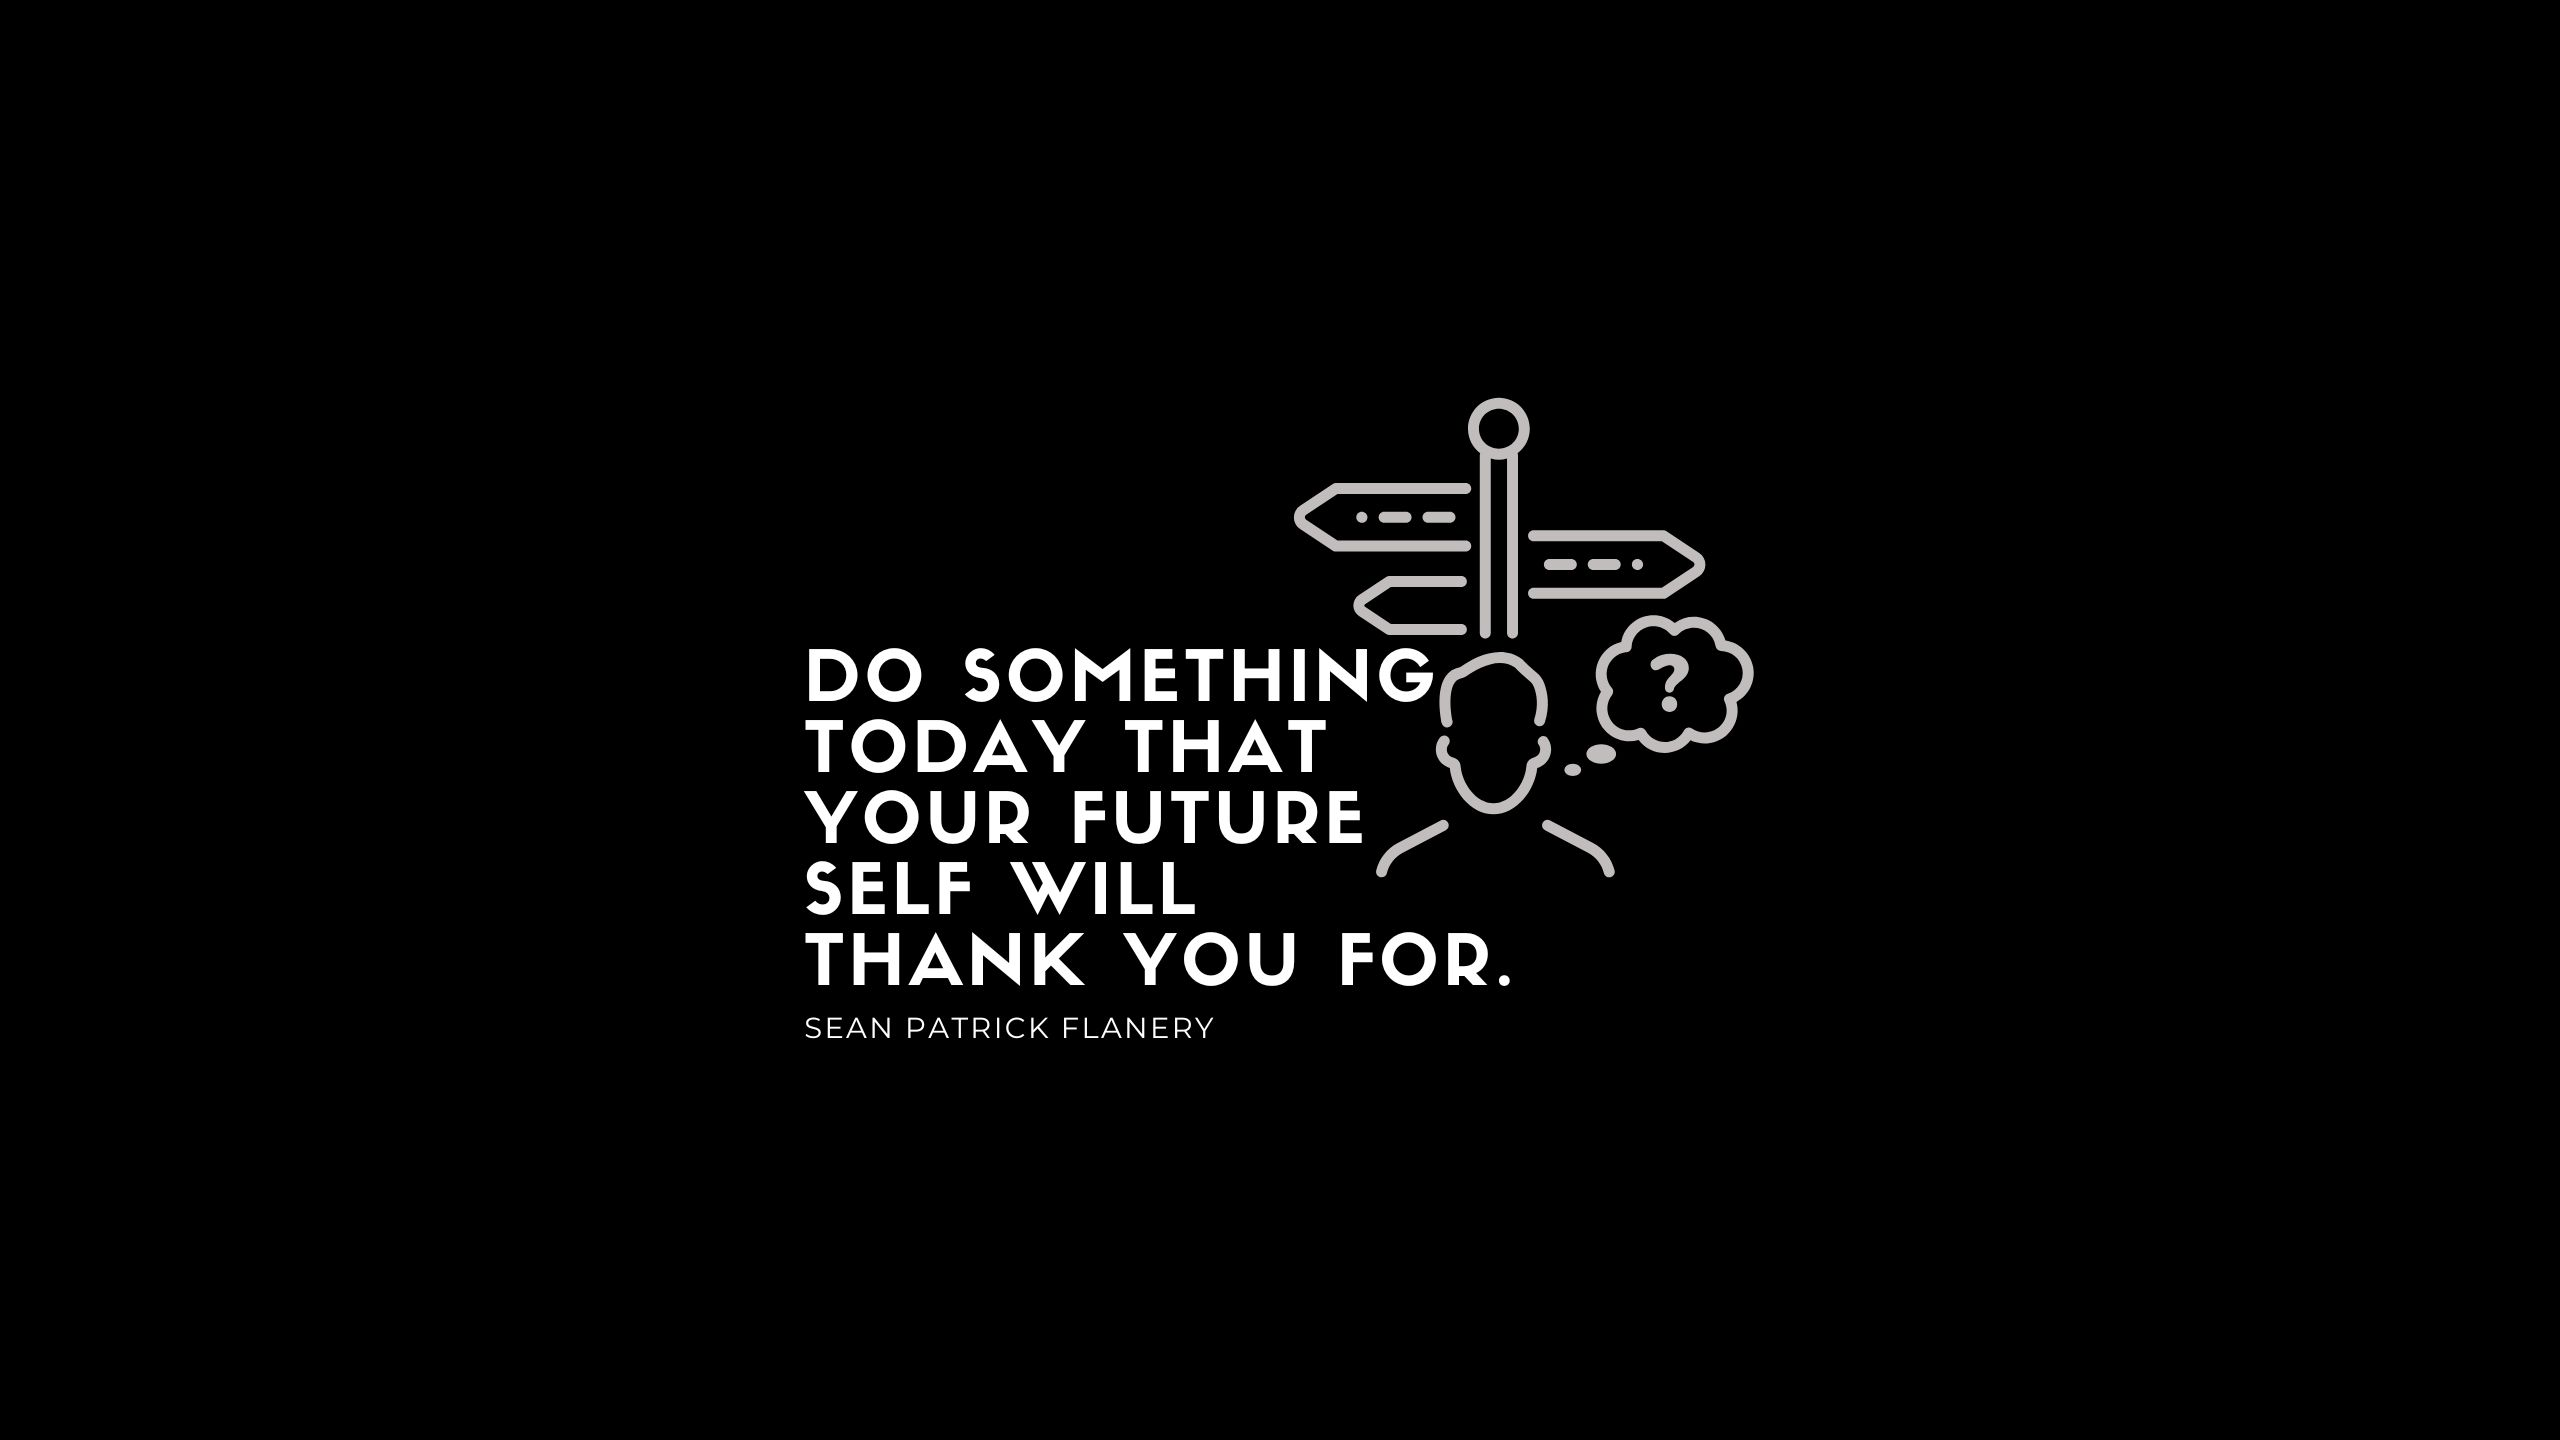
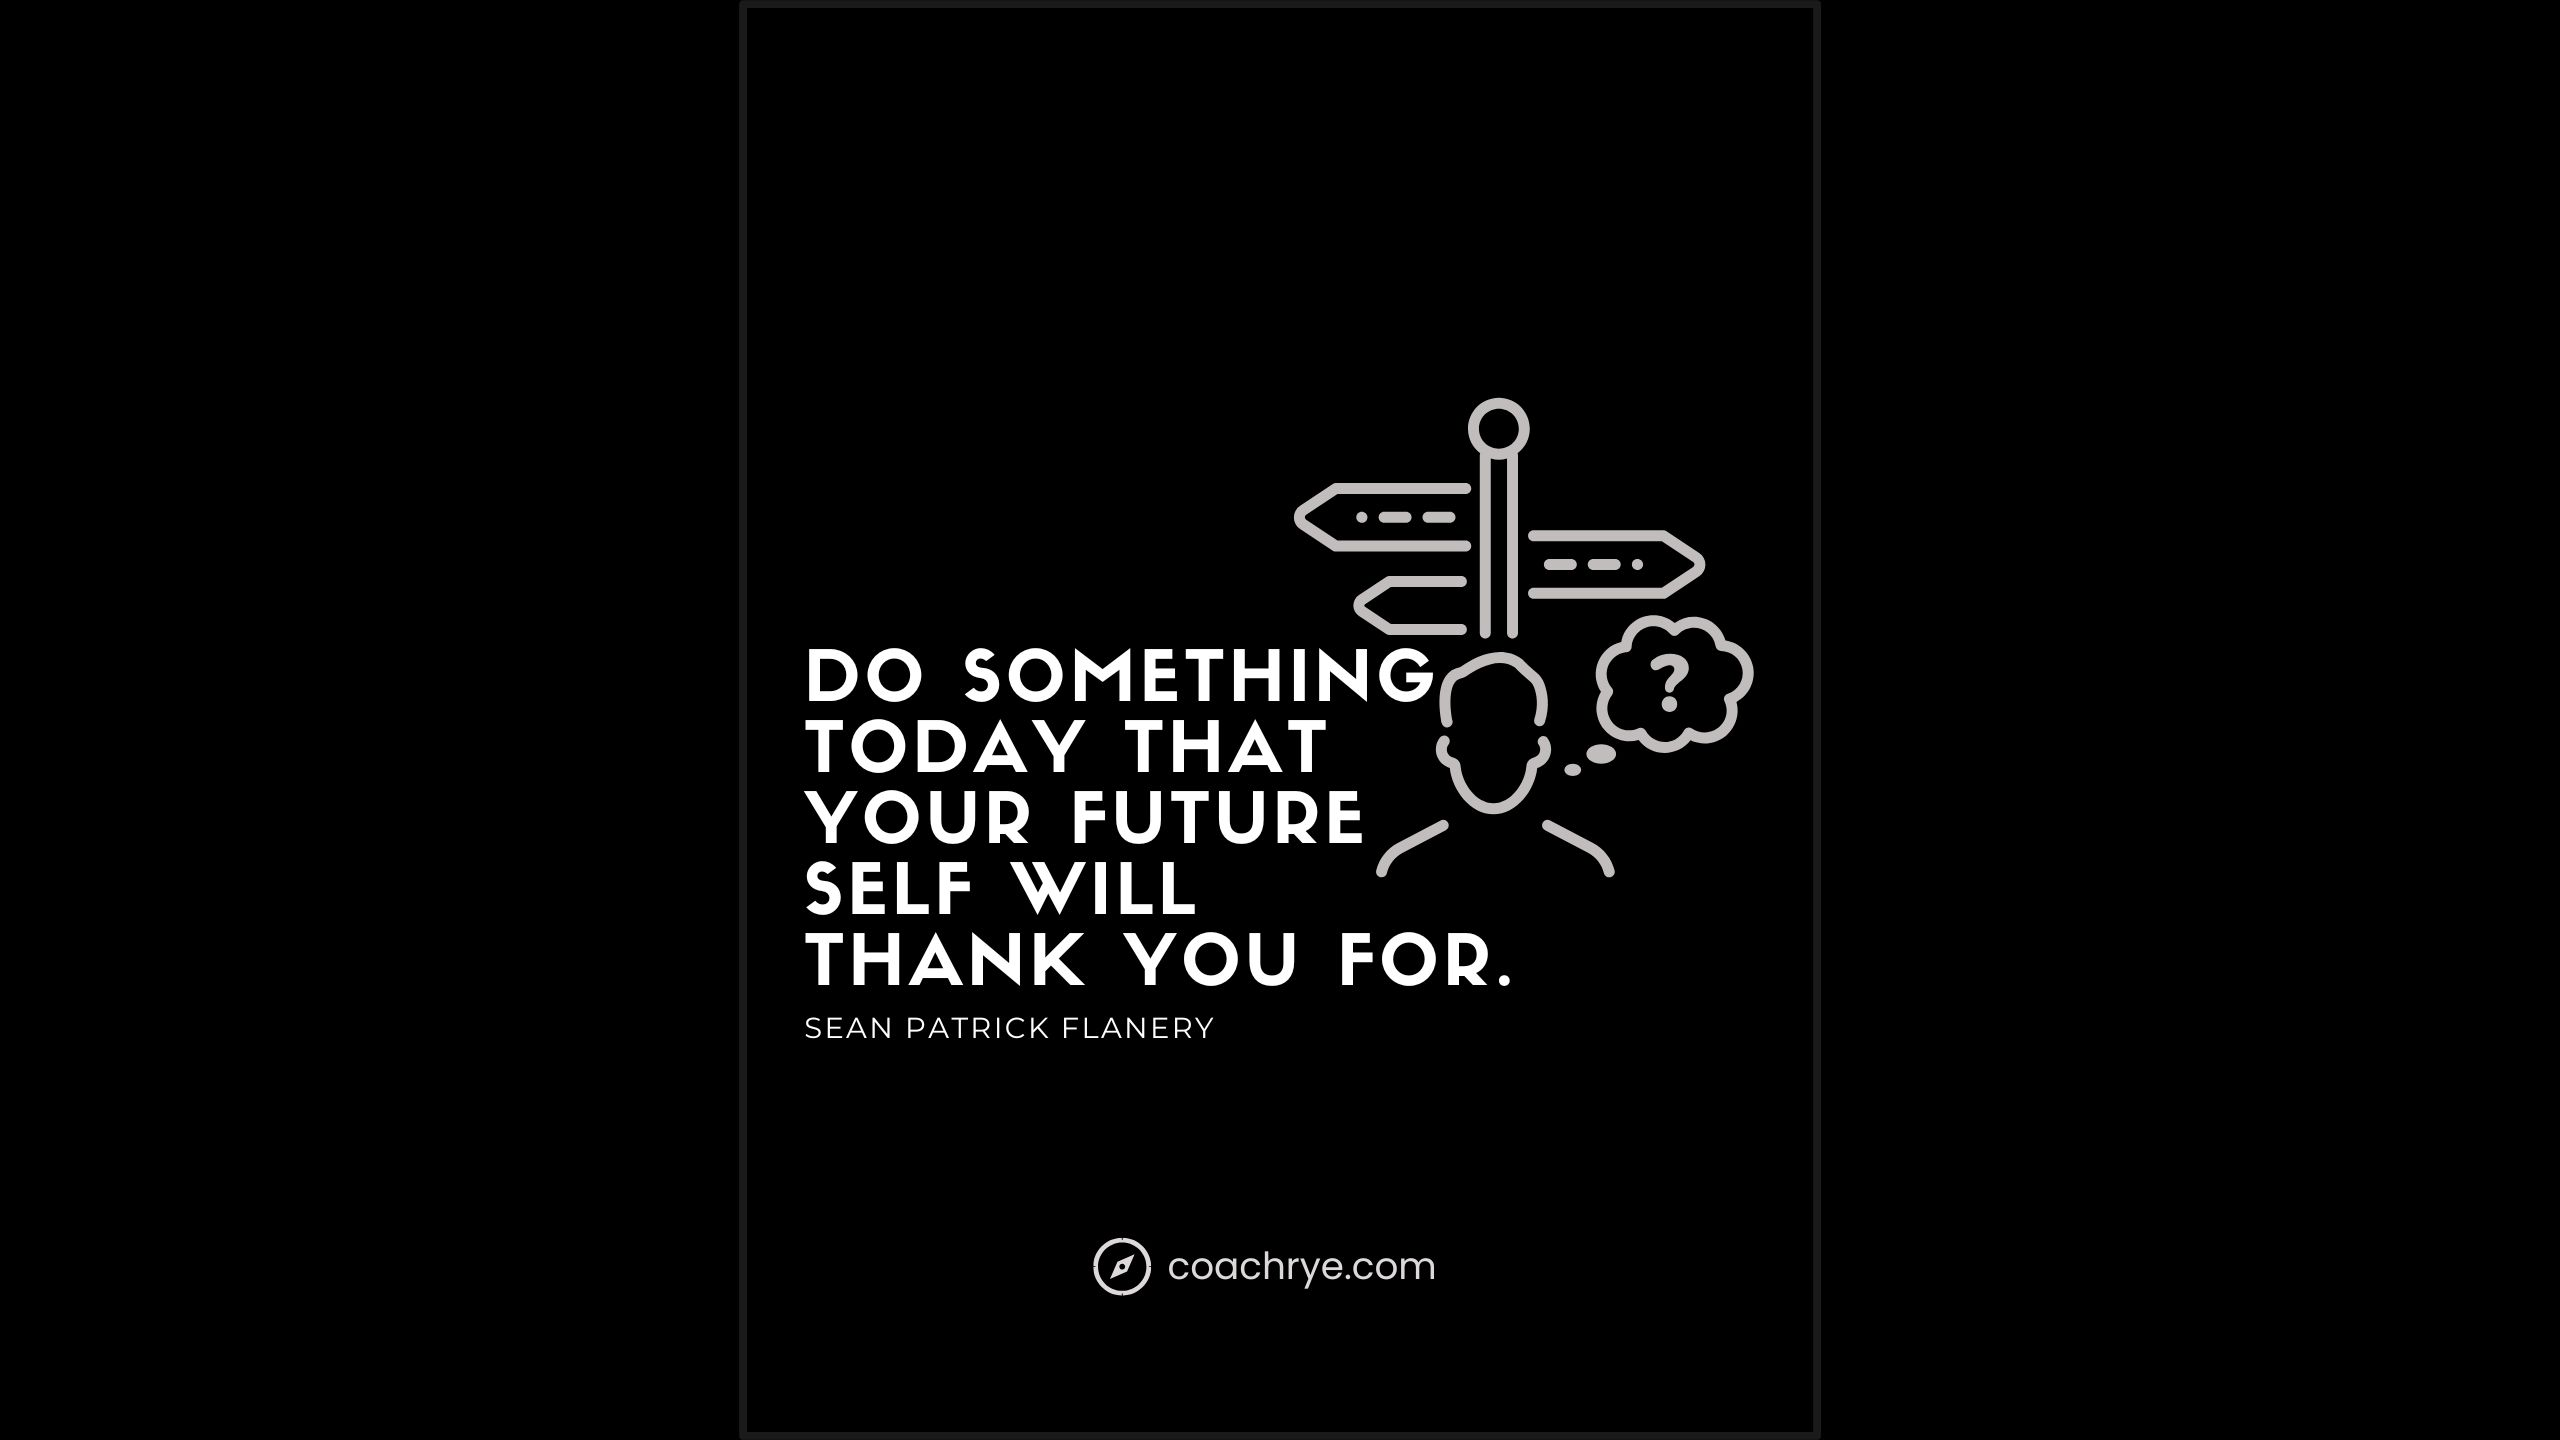
2025-03-07

Changed region(s): [[0.2812, 0.9688, 0.7188, 1.0], [0.2812, 0.0, 0.7188, 0.0312], [0.4375, 0.875, 0.5625, 0.9062]]

diff --git a/_posts/2025-03-07-no-is-aokay.md b/_posts/2025-03-07-no-is-aokay.md
@@ -1,0 +1,30 @@
+---
+layout: post
+date: 2025-03-07 00:23:00 00:00:00
+title: No is A-Okay!
+description: Saying no doesn’t make you selfish. It makes you human.
+redirect_from:
+- /post/46
+- /2025-03-07
+image: assets/images/2025-03-07.jpg
+YouTube:
+categories: [ Mindful Musings, Coaching Convos ]
+tags: [ Selfish, Saying No ]
+featured: false
+author: rye
+published: true
+---
+
+I once saw this on a friend's post:
+
+> "Just because a family goes on vacations, drives a nice car, or enjoys good food doesn’t mean they have extra money to spare. They probably worked hard and made sacrifices to afford those things.
+> 
+> If they say no to a request, it’s not because they’re selfish—everyone has bills to pay and a life to sustain."
+
+I couldn’t agree more. But I’d add one more thing: **even if they _do_ have extra money, it’s still okay to say NO.**
+
+Saying no doesn’t make someone selfish, heartless, or mean. It just means they have their own priorities, and that’s completely valid. No explanation needed.
+
+This isn’t about never helping—it’s about setting boundaries without guilt. A "no" doesn’t always mean selfishness. It means priorities, responsibilities, and personal choices.
+
+So whether you’re the one saying no or on the receiving end of it—respect the choice. Because **no is A-Okay!**
